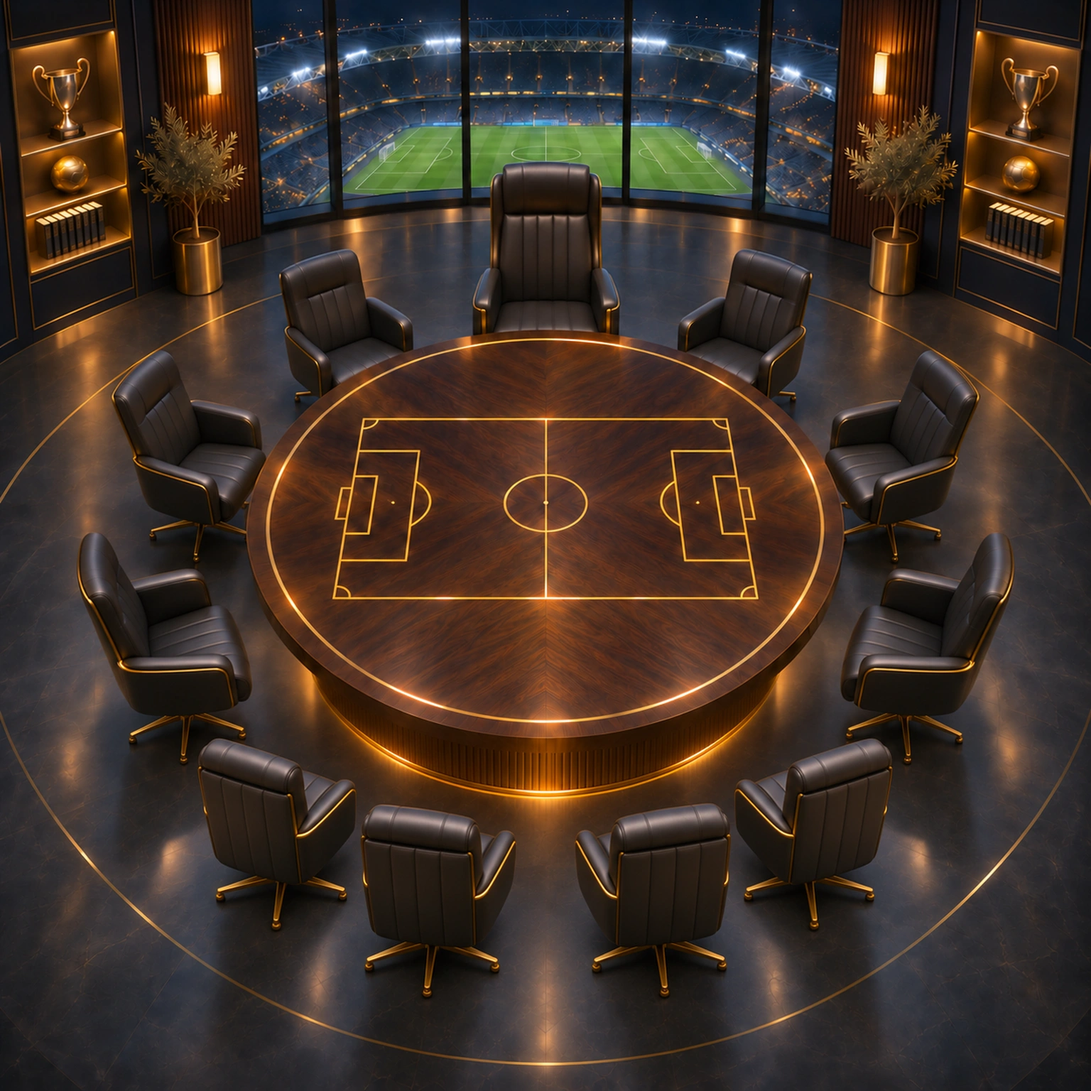
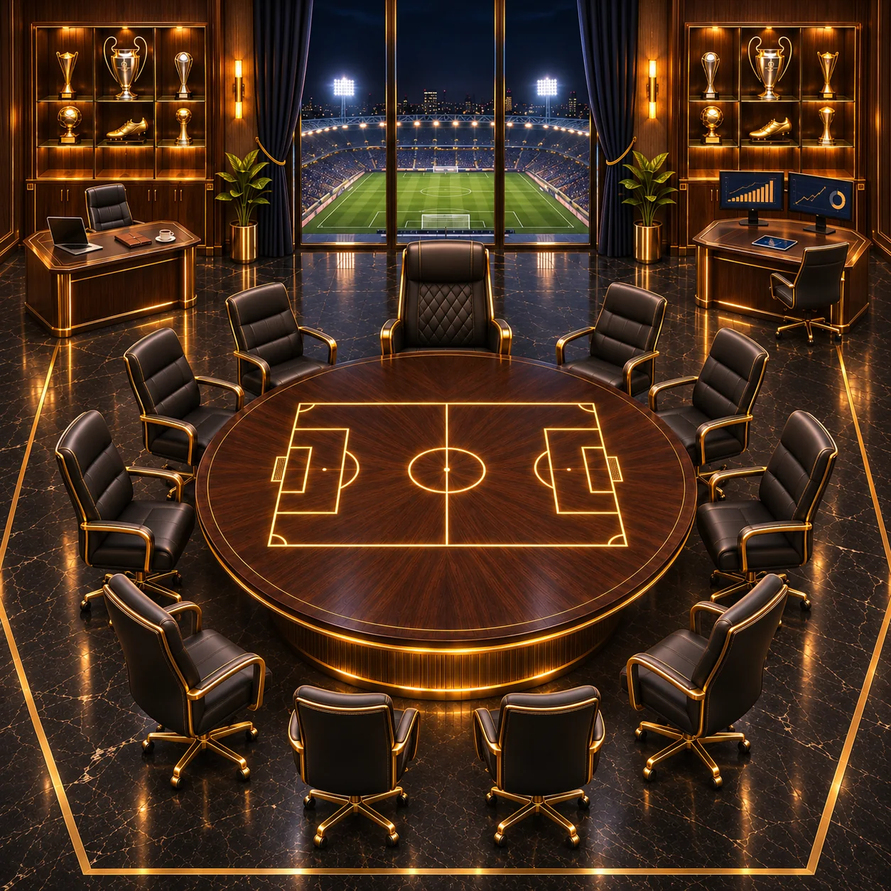
Менеджер: новый стол персонала со столами Алисы и Марка, их шторка, инфо-попап, тренеры Немец и Итальянец, промпты

diff --git a/frontend/src/components/manager/StaffTab.tsx b/frontend/src/components/manager/StaffTab.tsx
@@ -1,4 +1,5 @@
 import { useMutation, useQuery, useQueryClient } from "@tanstack/react-query";
+import { AnimatePresence, motion } from "framer-motion";
 import { useState } from "react";
 
 import {
@@ -34,6 +35,7 @@ import { MIcon } from "@/lib/managerIcons";
 import { eur } from "@/lib/managerMoney";
 import { payMyPlayerWithStars } from "@/lib/myPlayerStars";
 import { hapticNotify, hapticSelection } from "@/lib/telegram";
+import { usePersistentState } from "@/lib/usePersistentState";
 
 const RARITY: Record<ManagerRarity, { label: string; ring: string; text: string }> = {
   common: { label: "обычный", ring: "ring-white/15", text: "text-ink-mist" },
@@ -58,6 +60,10 @@ export default function StaffTab({ onError }: { onError: (e: unknown) => void })
   const { data } = useQuery({ queryKey: ["manager", "staff"], queryFn: fetchManagerStaff });
   // The round table is the tab; a VIP's desk opens under it from their corner.
   const [desk, setDesk] = useState<Vip | null>(null);
+  const [introSeen, setIntroSeen] = usePersistentState<boolean>("manager.staffIntro", false);
+  const [help, setHelp] = useState(false);
+  const intro = help || !introSeen;
+  const closeIntro = () => { setIntroSeen(true); setHelp(false); };
   const [busy, setBusy] = useState<string | null>(null);
   useFocusTarget((t) => { if (FOCUS[t]) setDesk(FOCUS[t]); });
   const done = (v: ManagerStaffView) => {
@@ -102,7 +108,15 @@ export default function StaffTab({ onError }: { onError: (e: unknown) => void })
 
   return (
     <div className="flex flex-col gap-4" data-testid="staff-tab">
-      <section className="relative overflow-hidden rounded-3xl ring-1 ring-violet-300/30" data-testid="staff-hero">
+      {/* What the tab is: a popup on the first visit, then behind «?» by the table's title. */}
+      <AnimatePresence>
+        {intro && (
+          <>
+            <motion.div key="intro-shade" className="fixed inset-0 z-[60] bg-black/60" onClick={closeIntro}
+              initial={{ opacity: 0 }} animate={{ opacity: 1 }} exit={{ opacity: 0 }} />
+            <motion.section key="intro" data-testid="staff-hero" role="dialog" aria-label="Персонал"
+              className="fixed inset-x-4 top-[14vh] z-[61] mx-auto max-h-[72vh] max-w-[440px] overflow-y-auto rounded-3xl bg-[#0e1622] shadow-2xl ring-1 ring-violet-300/30"
+              initial={{ opacity: 0, scale: 0.92 }} animate={{ opacity: 1, scale: 1 }} exit={{ opacity: 0, scale: 0.92 }}>
         <OfficeScene room={data.worn.room?.art} code={data.worn.room?.code} className="absolute inset-0 h-full w-full opacity-45" />
         <div className="absolute inset-0 bg-gradient-to-b from-[#120d24]/70 via-[#0e1622]/85 to-[#0b1410]" />
         <div className="relative p-4">
@@ -120,36 +134,61 @@ export default function StaffTab({ onError }: { onError: (e: unknown) => void })
             </button>
           )}
         </div>
-      </section>
+              <div className="relative flex flex-col gap-2 px-4 pb-4">
+                <p className="text-micro leading-snug text-ink-mist">Сила клуба — от персонала из жителей города и твоих решений. {vipOf("assistant").name}, {vipOf("analyst").name} и их образы — удобство и стиль. Машины и кабинеты — в «Клуб» → «Стиль».</p>
+                <button onClick={closeIntro} className="w-full rounded-2xl bg-floodlight py-2.5 text-sm font-bold text-bg-base" data-testid="staff-intro-ok">Понятно</button>
+              </div>
+            </motion.section>
+          </>
+        )}
+      </AnimatePresence>
 
       <StaffTable data={data} onDone={done} onError={onError}
         extra={(role) => (role === "director" ? <DirectorPanel data={data} onError={onError} />
           : role === "coach" ? (() => { const c = data.staff.find((s) => s.role === "coach")?.coach; return c ? <CoachCard coach={c} compact /> : null; })()
           : null)}
+        onHelp={() => setHelp(true)}
         corners={data.vip.map((v) => <VipCorner key={v.code} vip={v} on={desk === v.role}
           onPick={() => { hapticSelection(); setDesk(desk === v.role ? null : v.role); }} />)} />
 
-      {desk && (
-        <div className="flex items-center justify-between px-1">
-          <p className="flex items-center gap-2 font-display text-base font-bold text-ink-chalk">
-            <MIcon code={`desk_${desk}`} emoji={desk === "assistant" ? "🗂" : "📊"} className="h-7 w-7" /> Стол: {vipOf(desk).name}
-          </p>
-          <button onClick={() => setDesk(null)} className="rounded-full bg-bg-surface px-3 py-1 text-micro text-ink-mist" data-testid="desk-close">Закрыть ✕</button>
-        </div>
-      )}
-      {desk === "assistant" && (
-        <>
-          {vipOf("assistant").active && <AssistantDesk onError={onError} />}
-          {details("assistant")}
-        </>
-      )}
-      {desk === "analyst" && (
-        <>
-          {details("analyst")}
-          {vipOf("analyst").active && <AnalystReview />}
-        </>
-      )}
-      <p className="px-1 text-micro text-ink-mist">VIP-персонал, скины, машины и кабинеты — удобство и стиль. Сила клуба зависит от штата из жителей и решений президента.</p>
+      {/* A VIP's desk opens as a sheet from the bottom, like the seats at the table. */}
+      <AnimatePresence>
+        {desk && (
+          <>
+            <motion.div key="shade" className="fixed inset-0 z-[60] bg-black/60" onClick={() => setDesk(null)}
+              initial={{ opacity: 0 }} animate={{ opacity: 1 }} exit={{ opacity: 0 }} />
+            <motion.section key="sheet"
+              className="fixed inset-x-0 bottom-0 z-[61] mx-auto flex max-h-[86vh] max-w-[480px] flex-col gap-3 overflow-y-auto rounded-t-3xl bg-bg-surface p-4 pb-8 ring-1 ring-violet-300/25"
+              initial={{ y: "100%" }} animate={{ y: 0 }} exit={{ y: "100%" }} transition={{ type: "spring", damping: 30, stiffness: 320 }}
+              data-testid="vip-sheet" role="dialog" aria-label={vipOf(desk).name}>
+              <div className="mx-auto h-1 w-10 rounded-full bg-white/20" />
+              <div className="flex items-center gap-3">
+                <span className="h-16 w-16 shrink-0 overflow-hidden rounded-2xl ring-2 ring-violet-300">
+                  <StaffPortrait role={desk} art={vipOf(desk).skin?.art} code={vipOf(desk).skin?.code} size={64} />
+                </span>
+                <div className="min-w-0 flex-1">
+                  <p className="text-micro font-bold uppercase tracking-[0.16em] text-violet-200">{desk === "assistant" ? "🗂 Помощница" : "📊 Аналитик"}</p>
+                  <p className="font-display text-lg font-black leading-tight text-ink-chalk">{vipOf(desk).name}</p>
+                  <p className="text-caption text-ink-mist">{vipOf(desk).active ? "Работает на тебя" : "Пока не нанят"}</p>
+                </div>
+                <button onClick={() => setDesk(null)} aria-label="Закрыть" className="self-start rounded-full bg-bg-raised px-2.5 py-1 text-sm text-ink-mist" data-testid="desk-close">✕</button>
+              </div>
+              {desk === "assistant" && (
+                <>
+                  {vipOf("assistant").active && <AssistantDesk onError={onError} />}
+                  {details("assistant")}
+                </>
+              )}
+              {desk === "analyst" && (
+                <>
+                  {details("analyst")}
+                  {vipOf("analyst").active && <AnalystReview />}
+                </>
+              )}
+            </motion.section>
+          </>
+        )}
+      </AnimatePresence>
     </div>
   );
 }
@@ -343,12 +382,12 @@ function DirectorPanel({ data, onError }: { data: ManagerStaffView; onError: (e:
   );
 }
 
-/** A VIP at their own desk by the trophy cabinets of the boardroom: the assistant on the left, the analyst on the right. */
+/** A VIP at their own desk by the trophy cabinets of the boardroom: the assistant at the laptop on the left, the analyst at the monitors on the right. */
 function VipCorner({ vip, on, onPick }: { vip: ManagerVip; on: boolean; onPick: () => void }) {
   const left = vip.role === "assistant";
   return (
     <button onClick={onPick} data-testid={`corner-${vip.role}`}
-      className="absolute -translate-x-1/2 -translate-y-1/2 text-center active:scale-95" style={{ left: left ? "11%" : "89%", top: "17%", width: "19%" }}>
+      className="absolute -translate-x-1/2 -translate-y-1/2 text-center active:scale-95" style={{ left: left ? "12%" : "89%", top: left ? "22%" : "29%", width: "16%" }}>
       <span className={`relative mx-auto block aspect-square w-[78%] overflow-hidden rounded-2xl ring-2 ${on ? "ring-amber-300 shadow-[0_0_20px_-2px_rgba(251,191,36,0.95)]" : vip.active ? "ring-violet-300 shadow-[0_0_18px_-2px_rgba(167,139,250,0.9)]" : "ring-white/20"}`}>
         <StaffPortrait role={vip.role} art={vip.skin?.art} code={vip.skin?.code} size={56} className={vip.active ? "" : "opacity-60 grayscale-[45%]"} />
         {!vip.active && <span className="absolute inset-x-0 bottom-0 bg-black/70 text-[8px] font-black uppercase text-amber-200">{vip.trial ? "неделя 0 ⭐" : "нанять"}</span>}

diff --git a/frontend/src/components/manager/StaffTable.tsx b/frontend/src/components/manager/StaffTable.tsx
@@ -33,11 +33,12 @@ const SHORT: Record<string, string> = {
   transport: "Транспорт", stadium: "Стадион", press: "Пресса", marketing: "Коммерция", finance: "Финансы",
 };
 
-/** The chairs of `council_table.webp` (1536², % of its side): the
- * president's, then the ten departments clockwise. */
+/** The chairs of `council_table.webp` (square, % of its side): the
+ * president's, then the ten departments clockwise. The VIP desks are by
+ * the cabinets in its top corners (StaffTab's VipCorner). */
 const TABLE_SEATS: [number, number][] = [
-  [50, 22], [68.4, 28], [82.7, 40], [85.3, 56], [74.9, 72], [59.9, 79],
-  [40.1, 79], [25.1, 72], [14.7, 56], [17.3, 40], [31.6, 28],
+  [50, 33], [68.6, 37.5], [79.7, 47], [85.5, 58], [79.7, 74], [60.6, 85],
+  [39.9, 85], [20.7, 74], [14.5, 58], [20.3, 47], [31.5, 37.5],
 ];
 
 /** Seat `i` of `n` around the table, the president's at the top. */
@@ -54,12 +55,14 @@ function Face({ m, size }: { m: { image: string | null; icon: string; name: stri
 
 /** «Штат»: a round table — the president at its head (his Telegram photo),
  * a seat for each of the ten departments. A tap opens the seat's sheet. */
-export default function StaffTable({ data, onDone, onError, extra, corners }: {
+export default function StaffTable({ data, onDone, onError, extra, corners, onHelp }: {
   data: ManagerStaffView; onDone: (v: ManagerStaffView) => void; onError: (e: unknown) => void;
   /** Department-specific panel inside its sheet (the sporting director). */
   extra?: (role: ManagerStaffRole) => ReactNode;
   /** The VIP desks by the cabinets (absolutely placed over the table). */
   corners?: ReactNode;
+  /** «?» by the title: how the staff works. */
+  onHelp?: () => void;
 }) {
   const user = useAuthStore((s) => s.user);
   const [open, setOpen] = useState<ManagerStaffRole | null>(null);
@@ -73,7 +76,13 @@ export default function StaffTable({ data, onDone, onError, extra, corners }: {
   return (
     <section className="flex flex-col gap-3 rounded-3xl bg-gradient-to-b from-[#16120c] to-bg-surface p-3 ring-1 ring-amber-200/15" data-testid="club-staff">
       <div className="flex items-center justify-between gap-2 px-1">
-        <h2 className="font-display text-base font-bold text-ink-chalk">🏢 Персонал клуба</h2>
+        <h2 className="flex items-center gap-2 font-display text-base font-bold text-ink-chalk">
+          🏢 Персонал клуба
+          {onHelp && (
+            <button onClick={onHelp} aria-label="Как работает персонал" data-testid="staff-help"
+              className="flex h-6 w-6 items-center justify-center rounded-full bg-white/10 text-xs font-black text-amber-100 active:scale-90">?</button>
+          )}
+        </h2>
         <span className="rounded-full bg-black/40 px-2 py-0.5 text-micro font-bold text-amber-100">
           {data.staff.length}/{data.slots} мест · {eur(data.wages)}/сезон
         </span>

diff --git a/backend/app/services/manager_coach.py b/backend/app/services/manager_coach.py
@@ -46,6 +46,14 @@ TRAITS: dict[str, dict] = {
                    "about": "4-4-2, навесы и прессинг каждую игру. Замены — только когда ноги уже не бегут.",
                    "quote": "Футбол — игра мужчин. Бежим девяносто минут.",
                    "formation": "4-4-2", "style": "attacking", "plan": "press", "sub_shift": 10, "subs": 0, "wants": "FWD"},
+    "german": {"name": "Немец", "title": "Машина", "emoji": "🇩🇪",
+               "about": "Прессинг сразу после потери и железный порядок: 3-5-2, атака и замены строго по плану.",
+               "quote": "Порядок бьёт талант, если талант не любит порядок.",
+               "formation": "3-5-2", "style": "attacking", "plan": "press", "sub_shift": 0, "subs": 0, "wants": "MID"},
+    "italian": {"name": "Итальянец", "title": "Катеначчо", "emoji": "🇮🇹",
+                "about": "Сначала закрыть ворота, потом ужалить: пять защитников, контратака и «автобус» против сильных.",
+                "quote": "Один гол — это уже победа, если не пропустить.",
+                "formation": "5-3-2", "style": "counter", "plan": "read", "sub_shift": 5, "subs": 0, "wants": "DEF"},
     "strategist": {"name": "Стратег", "title": "Шахматист", "emoji": "♟",
                    "about": "Подбирает схему под свой состав, а стиль — под соперника. Ни одного лишнего риска.",
                    "quote": "Матч выигрывается до стартового свистка.",

diff --git a/backend/tests/test_manager_coach.py b/backend/tests/test_manager_coach.py
@@ -29,9 +29,9 @@ def _cat(p):
     return manager_service._category(manager_service.Position(p["position"]))
 
 
-def test_ten_characters_and_their_rules():
-    assert len(coach.TRAITS) == 10
-    assert {"spaniard", "portuguese", "frenchman", "englishman"} <= set(coach.TRAITS)
+def test_twelve_characters_and_their_rules():
+    assert len(coach.TRAITS) == 12
+    assert {"spaniard", "portuguese", "frenchman", "englishman", "german", "italian"} <= set(coach.TRAITS)
     for t in coach.TRAITS.values():
         assert t["formation"] == "fit" or t["formation"] in manager_tactics.FORMATIONS
         assert t["style"] in ("read", *manager_tactics.STYLES)

diff --git a/prompts-manager-art-v2.md b/prompts-manager-art-v2.md
@@ -1,0 +1,98 @@
+# Менеджер: промпты, часть 2 (тренеры и иконки без рамок)
+
+Куда класть: просто скинь папку, я сам сконвертирую в webp и разложу.
+Имя файла должно совпадать с кодом из таблицы. Пока картинки нет, игра показывает эмодзи.
+
+---
+
+## 1. Главные тренеры: 12 портретов (`coach_<код>`)
+
+Характер выпадает случайно, когда нанимаешь главного тренера в «Персонале». Портрет показывается:
+- в карточке тренера во вкладке «Тактика»;
+- в его листе за круглым столом.
+
+### Общий стиль (вставлять в начало каждого промпта)
+
+> Stylized semi-realistic portrait of a football head coach for a premium mobile football manager game, 768×768, square. Head and shoulders, three-quarter view, looking slightly toward the viewer. Painted digital illustration with clean shapes, soft cinematic rim light, warm key light from the left. Background: a softly blurred stadium tunnel / dugout at evening with floodlight bokeh, dark teal-green tones, no readable text, no logos, no club badges, no flags. Same art style and lighting as a set of 12 coach portraits — consistent framing, face fills about 45% of the frame, shoulders cut at the bottom edge. Fictional person, not resembling any real coach.
+
+### Портреты (дописать после общего стиля)
+
+| код | характер | кто на портрете |
+|---|---|---|
+| `coach_spaniard` | Испанец · «Тики-така» | a slim man in his 40s with short dark hair and a neat stubble, a fitted dark navy cardigan over a white shirt, calm thoughtful expression, one hand gesturing as if explaining a passing pattern |
+| `coach_portuguese` | Португалец · «Особенный» | a confident man around 50, swept-back salt-and-pepper hair, sharp dark grey overcoat with the collar up, a knowing half-smile, arms crossed |
+| `coach_frenchman` | Француз · «Эстет» | an elegant man in his late 40s with wavy chestnut hair and round tortoiseshell glasses, a camel scarf loosely wrapped, a slight artistic smile |
+| `coach_englishman` | Англичанин · «Старая школа» | a broad-shouldered ruddy-faced man in his late 50s, thinning grey hair, a heavy padded touchline coat in dark green, a stern shout-ready expression |
+| `coach_german` | Немец · «Машина» | a tall disciplined man in his early 50s with short neat blond-grey hair and rimless glasses, a dark charcoal quilted coach jacket zipped up, a precise focused look, one finger raised as if giving an exact instruction |
+| `coach_italian` | Итальянец · «Катеначчо» | a stylish man in his mid 50s with slicked-back dark grey hair and a trimmed beard, a tailored navy suit with an open collar, arms folded, a calm calculating half-smile |
+| `coach_strategist` | Стратег · «Шахматист» | a lean bald man in his 50s with a trimmed grey beard, thin-rimmed glasses, a black turtleneck, holding a small tactics tablet, focused calculating look |
+| `coach_motivator` | Мотиватор · «Огонь в раздевалке» | an energetic man in his late 30s with a buzz cut, a club tracksuit jacket zipped to the chin, fist raised near the chest, a fiery passionate expression, slight motion in the hair |
+| `coach_iron` | Железный · «Дисциплина» | a tall stern woman in her 40s with her hair pulled back tightly, a structured black coach jacket, arms behind her back, an unblinking disciplined look |
+| `coach_gambler` | Авантюрист · «Всё или ничего» | a charismatic man in his 40s with longish messy hair and a playful grin, an unbuttoned open-collar shirt under a leather jacket, a coin flipping above his fingers |
+| `coach_mentor` | Наставник · «Отец команды» | a kind grey-haired man in his 60s with a warm smile and laugh lines, a knitted sweater over a collared shirt, a whistle on a cord around his neck |
+| `coach_pragmatist` | Прагматик · «Результат любой ценой» | a composed woman in her early 40s with a short practical bob, a dark club rain jacket, a notebook in hand, a cool neutral expression |
+
+Национальности есть у шести: Испанец, Португалец, Француз, Англичанин, Немец, Итальянец. Остальные шесть называются по чертам характера. Флагов на портретах нет.
+
+---
+
+## 2. Иконки разделов: новый стиль без рамок и фона
+
+Старые иконки (синяя плитка с золотой рамкой) уходят. Новые — один крупный объект на прозрачном фоне, без плитки и без кружка вокруг. Коды те же, поэтому прислал — и они сразу встанут на место. В интерфейсе я сделал их крупнее.
+
+### Общий стиль (вставлять в начало каждого промпта)
+
+> Premium mobile game icon, 512×512, FULLY TRANSPARENT background (PNG with alpha). ONE bold, simple 3D object only, centered, filling about 85% of the canvas. Glossy stylized 3D render, warm gold and rich color accents, soft top-left light, a subtle soft shadow under the object. NO tile, NO frame, NO circle, NO badge shape, NO background color, NO scene, no text, no letters, no numbers. Clean silhouette readable at 32 px. Same style as a set of football manager icons.
+
+### Главные вкладки
+
+| код | вкладка | объект |
+|---|---|---|
+| `tab_club` | Клуб | a football club crest shield in deep green and gold with a football in the center |
+| `tab_transfers` | Трансферы | two folded football jerseys (one red, one blue) with a gold curved swap arrow between them |
+| `tab_office` | Кабинет | a dark brown leather executive briefcase with a gold clasp |
+| `tab_staff` | Персонал | a small round wooden boardroom table with three tiny chairs around it, seen from a 3/4 angle |
+
+### Внутри клуба и другие места
+
+| код | где | объект |
+|---|---|---|
+| `tab_league` | Лига (шаги новичка) | a gold championship trophy cup with two handles |
+| `tab_style` | Стиль | a football jersey with a paint brush crossing it |
+| `tab_me` | Я игрок | a football boot with a ball next to it |
+| `desk_assistant` | стол Алисы | a leather planner with a gold pen clipped to it |
+| `desk_analyst` | стол Марка | a tablet showing a rising bar chart |
+| `desk_garage` | Гараж (в «Стиле») | a car key with a gold shield-shaped fob |
+
+### Кабинет президента
+
+| код | раздел | объект |
+|---|---|---|
+| `pres_report` | Отчёт | a document sheet with a pie chart |
+| `pres_budget` | Бюджет | an open ledger book with a stack of gold coins on it |
+| `pres_bank` | Банк | a classical bank building facade with columns, small and chunky |
+| `pres_deals` | Сделки | two hands in a handshake, gold cufflinks |
+| `pres_sponsor` | Спонсор | a gold ribbon banner with a blank shield, like a sponsor badge |
+| `pres_matchday` | Стадион | a small stadium bowl with floodlights |
+| `pres_awards` | Награды | a gold medal on a red-white ribbon |
+| `pres_rating` | Рейтинг | a podium with three steps and a star above the top step |
+| `pres_exchange` | Биржа | a green candlestick chart arrow going up |
+
+---
+
+## 3. Значки отделов за круглым столом (`dept_*`): без рамки и фона
+
+Сейчас у каждого значка синяя плитка с золотой рамкой. Новые: только символ на прозрачном фоне. Общий стиль тот же, что в разделе 2.
+
+| код | отдел | объект |
+|---|---|---|
+| `dept_coach` | Тренерский штаб | a gold whistle on a cord lying on a small tactics clipboard |
+| `dept_director` | Спортивный департамент | a gold compass next to a tactics clipboard |
+| `dept_scout` | Скаутинг | a pair of gold binoculars |
+| `dept_academy` | Академия | a football with a small green sprout growing from the top |
+| `dept_physio` | Медицинский центр | a gold medical cross with a heartbeat line across it |
+| `dept_transport` | Транспортный департамент | a gold-and-navy team coach bus, front 3/4 view |
+| `dept_stadium` | Стадион | a small round stadium with a green pitch and four floodlights |
+| `dept_press` | Пресс-служба | a gold studio microphone on a short stand |
+| `dept_marketing` | Коммерция | a gold megaphone with a few confetti pieces |
+| `dept_finance` | Финансы | a round gold vault door with a spoked handle |

diff --git a/CLAUDE.md b/CLAUDE.md
@@ -99,7 +99,7 @@ Main features:
   match is the XI plus a bench of `bench_size` (`matchday_bench`): played
   phase by phase (`_Subs`, `simulate_match_controlled`), starters tire by
   `tired_pct` from `sub_minutes` and fresher subs of the same line come on
-  (`subs_max`). «Главный тренер» (`manager_coach.py`): a character of ten
+  (`subs_max`). «Главный тренер» (`manager_coach.py`): a character of twelve
   rolled at the hiring (`office["coach"]`) runs the match day — formation,
   style, «Установка на матч», substitutions — unless the president takes the
   tactics back (`office["coach_auto"]`), and asks for the player the XI lacks
